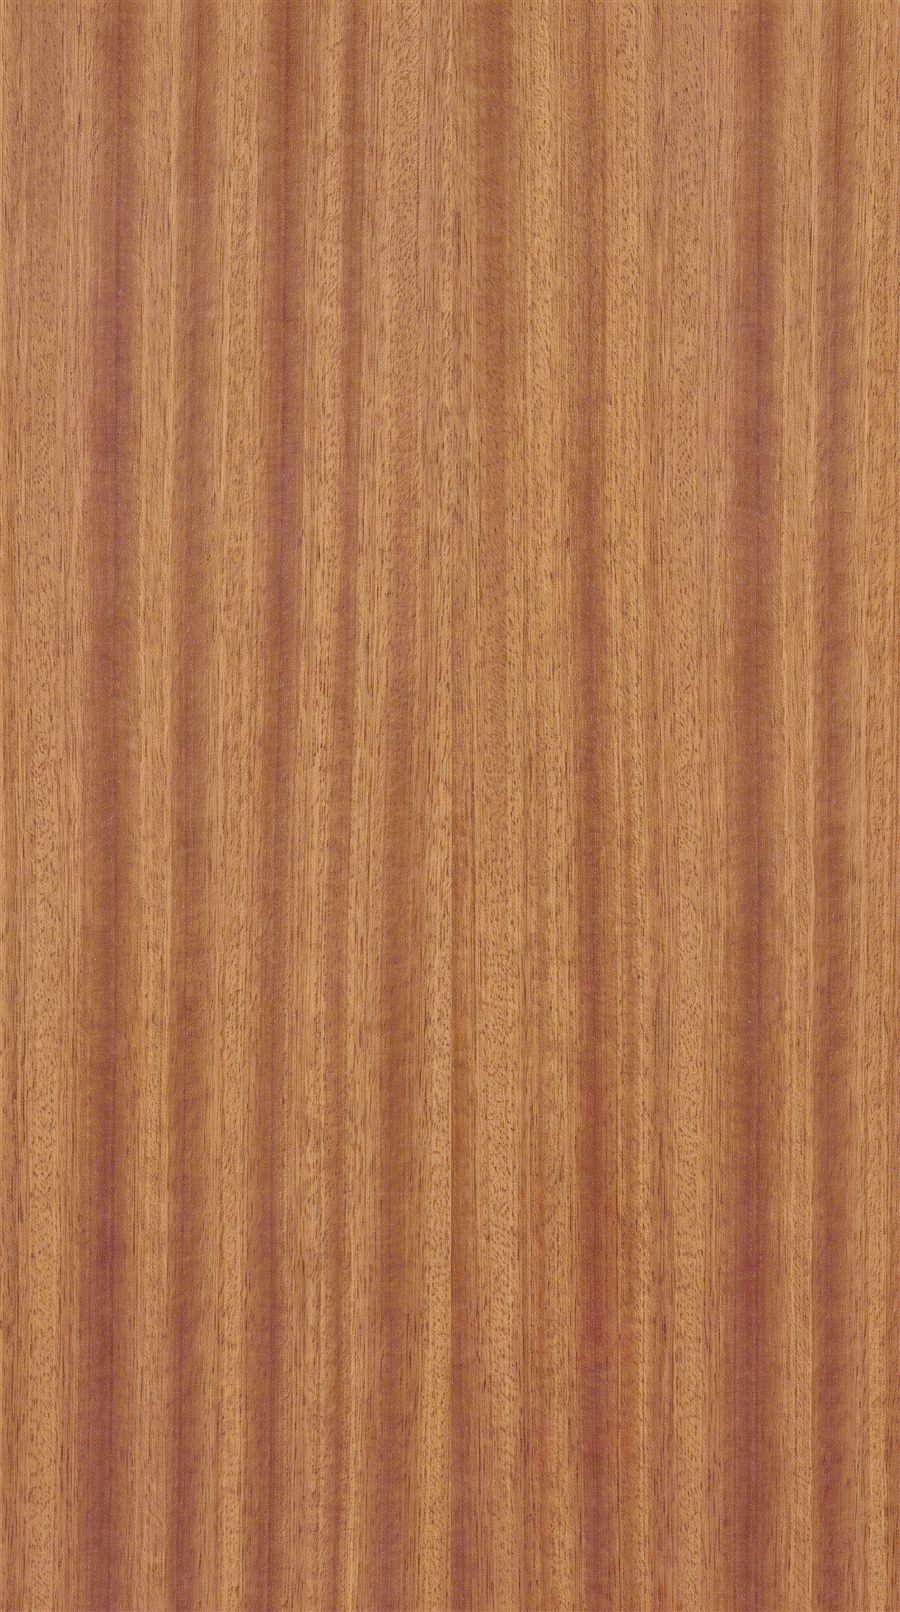
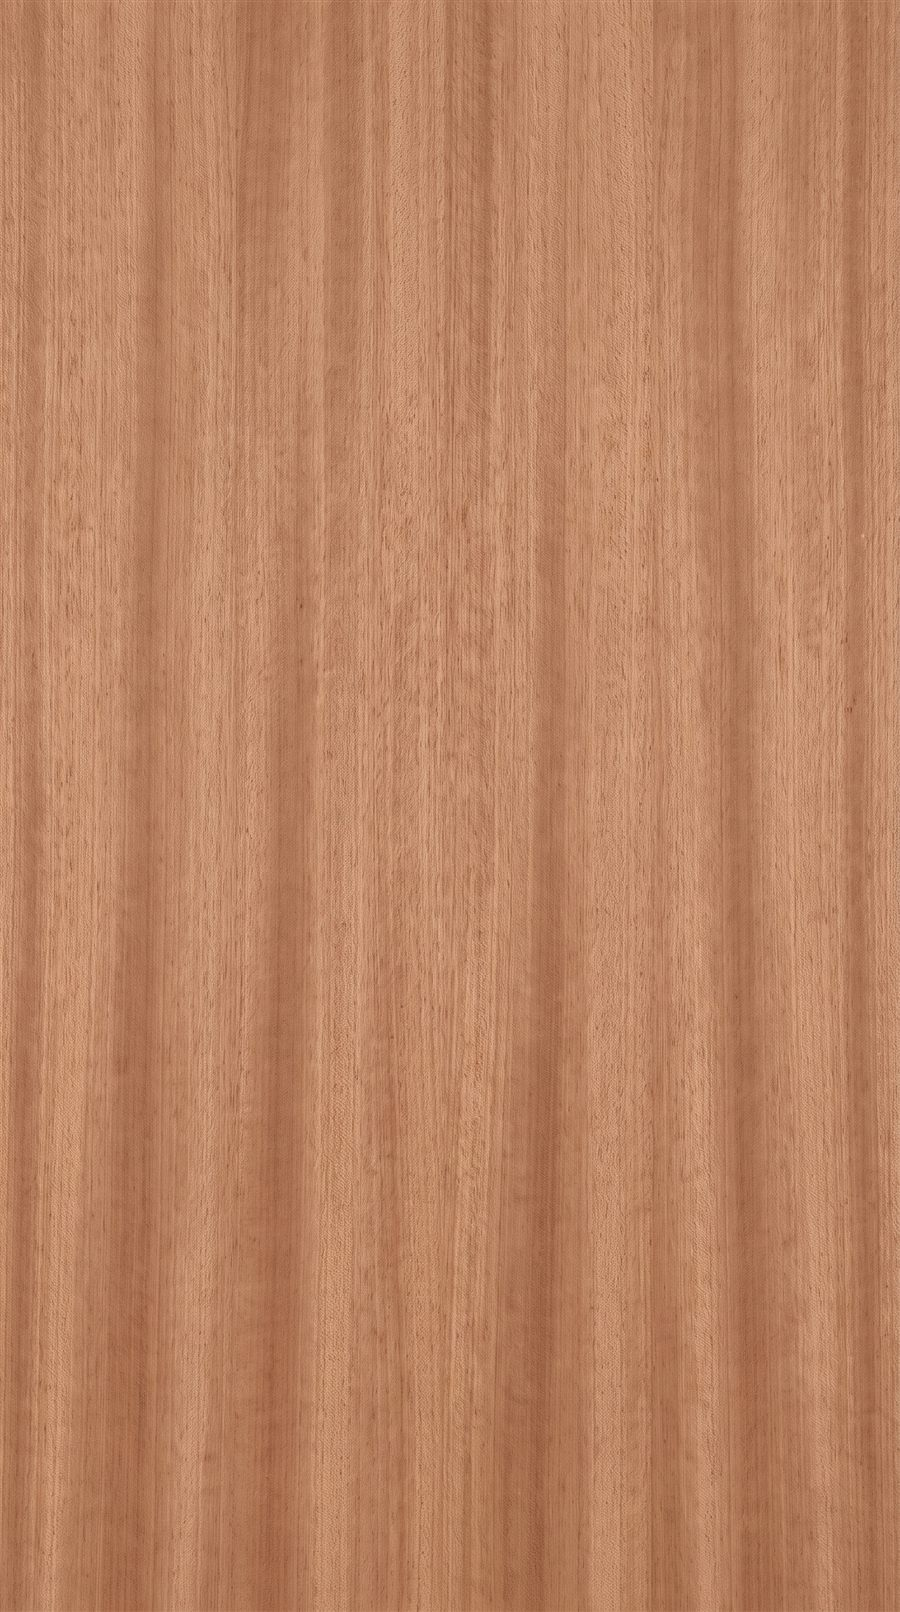
Blank slab until a grain is picked + mahogany skin rebuilt from scratch
- Step 2 renders a neutral unfinished slab (putty tone + the design's
  grooves, flat neutral frame) until one of the grain cards is chosen
  - same no-silent-defaults rule as the hardware gate
- skin-mahogany.jpg regenerated: smooth fine low-contrast ribbon grain
  (the previous texture's strong banding survived the tint pipeline as
  corduroy stripes); measures 0.565 mean luma so the stain factor is a
  gentle 0.974 with zero clipping

diff --git a/doors.js b/doors.js
@@ -712,10 +712,11 @@ function unitSVG(door, sel, opts) {
   const skinHref = gk === 'mahogany' ? 'images/skin-mahogany.jpg' : 'images/skin-oak.jpg';
   /* finishTint assumes a 0.55-mean-luma skin (lvl = swatch/0.55); each skin
      corrects its own measured mean to that baseline so every stain's mid-tone
-     lands exactly on its swatch (mahogany asset is gamma-normalized to 0.515) */
-  const skinLevel = gk === 'mahogany' ? 1.07 : 0.656;
+     lands exactly on its swatch (skin-mahogany.jpg measures 0.565 mean) */
+  const skinLevel = gk === 'mahogany' ? 0.974 : 0.656;
   const skinContrast = gk === 'mahogany' ? 1.0 : 1.12;
-  const isStainShown = !!(FINISHES[dispKey] || {}).stain;
+  // opts.noGrain: skin not chosen yet — render a neutral unfinished slab
+  const isStainShown = !opts.noGrain && !!(FINISHES[dispKey] || {}).stain;
   if (tint && gk === 'mahogany' && (FINISHES[dispKey] || {}).stain) {
     const n = parseInt(tint.color.slice(1), 16), mix = (a, b) => Math.round(a + (b - a) * 0.3);
     tint = { color: '#' + ((1 << 24) + (mix((n >> 16) & 255, 122) << 16) + (mix((n >> 8) & 255, 63) << 8)
@@ -725,7 +726,8 @@ function unitSVG(door, sel, opts) {
     : (sel && sel.frame != null ? CONFIG.finishKeys[sel.frame] : finKey);
   /* when the frame colour matches the slab, render it in the slab's actual
      displayed tone (tint + grain cast, or the paint) so they read as one unit */
-  const frameColor = (!interiorView && frameKey === finKey)
+  const frameColor = opts.noGrain ? '#cfc8b8'
+    : (!interiorView && frameKey === finKey)
     ? (gk === 'smooth' ? ((FINISHES[dispKey] || {}).swatch || '#ECEAE1')
       : (tint ? tint.color : (FINISHES[frameKey] || {}).swatch || '#fbfaf6'))
     : (FINISHES[frameKey] || {}).swatch || '#fbfaf6';
@@ -737,11 +739,11 @@ function unitSVG(door, sel, opts) {
     fTint = { color: '#' + ((1 << 24) + (mx((n2 >> 16) & 255, 122) << 16) + (mx((n2 >> 8) & 255, 63) << 8)
       + mx(n2 & 255, 43)).toString(16).slice(1), lvl: fTint.lvl };
   }
-  const frameWood = gk !== 'smooth' && !!(FINISHES[frameKey] || {}).stain && !!fTint;
+  const frameWood = !opts.noGrain && gk !== 'smooth' && !!(FINISHES[frameKey] || {}).stain && !!fTint;
   const frameFill = frameWood ? `url(#ftex-${uid})` : frameColor;
   const groovesPainted = !interiorView && !!(CONFIG.paintedGrooves[sel ? sel.grooves : 0] || {}).painted;
   // smooth skin: true paint colour + groove/highlight tones scaled to its lightness
-  const paintHex = (FINISHES[dispKey] || {}).swatch || '#ECEAE1';
+  const paintHex = opts.noGrain ? '#DED8CB' : ((FINISHES[dispKey] || {}).swatch || '#ECEAE1');
   const pn = parseInt(paintHex.slice(1), 16);
   const paintLuma = (0.299 * (pn >> 16 & 255) + 0.587 * (pn >> 8 & 255) + 0.114 * (pn & 255)) / 255;
   const smoothGroove = groovesPainted ? 'rgba(0,0,0,.82)' : paintLuma > 0.55 ? 'rgba(0,0,0,.30)' : 'rgba(0,0,0,.48)';

diff --git a/configurator.js b/configurator.js
@@ -161,7 +161,7 @@
     pane.innerHTML = `
       <div class="hv-stage">
         <img src="${st.home.url}" alt="Your home">
-        <div class="hv-door">${unitSVG(st.door, st.sel, { bare: true, noHandle: !st.picked.hw })}</div>
+        <div class="hv-door">${unitSVG(st.door, st.sel, { bare: true, noHandle: !st.picked.hw, noGrain: !st.picked.grain })}</div>
       </div>
       <div class="pv-cap"><span>Your home · ${st.door.name}</span><b>Drag the door into place · size slider on the right</b></div>`;
     pane.querySelector('.hv-stage img').addEventListener('load', placeHomeDoor);
@@ -200,7 +200,7 @@
       ? `Custom ${inFrac(s.cw)} × ${inFrac(s.ch)}`
       : `${CONFIG.slabWidths[s.slabW].label} × ${CONFIG.slabHeights[s.height].hIn}"`);
     if (st.picked.swing) bits.push(`${s.handleSide === 0 ? 'Left' : 'Right'} hand hinge`, CONFIG.swings[s.swing].label);
-    pane.innerHTML = unitSVG(st.door, st.sel, { dims: sized ? computeDims() : null, view: st.view, noHandle: !st.picked.hw }) + `
+    pane.innerHTML = unitSVG(st.door, st.sel, { dims: sized ? computeDims() : null, view: st.view, noHandle: !st.picked.hw, noGrain: !st.picked.grain }) + `
       <div class="pv-cap"><span>Live preview · ${st.view === 'int' ? 'interior' : 'exterior'} view</span><b>${bits.join(' · ')}</b></div>
       <div class="pv-toggle" role="group" aria-label="Preview side">
         <button type="button" class="${st.view !== 'int' ? 'on' : ''}" data-v="ext">Exterior</button>
